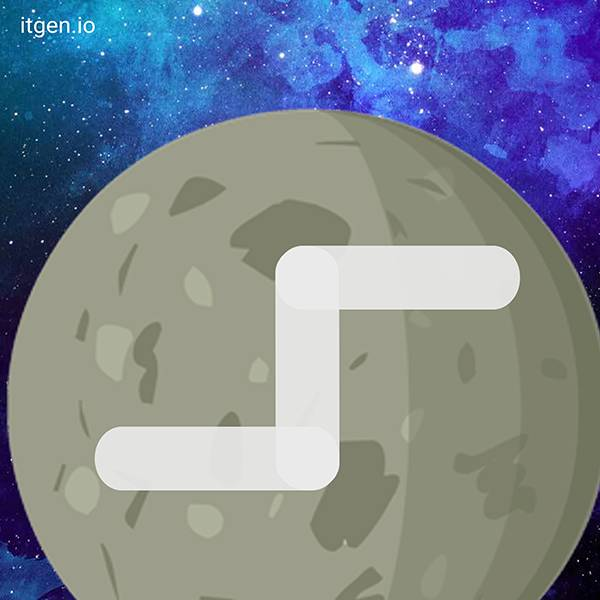
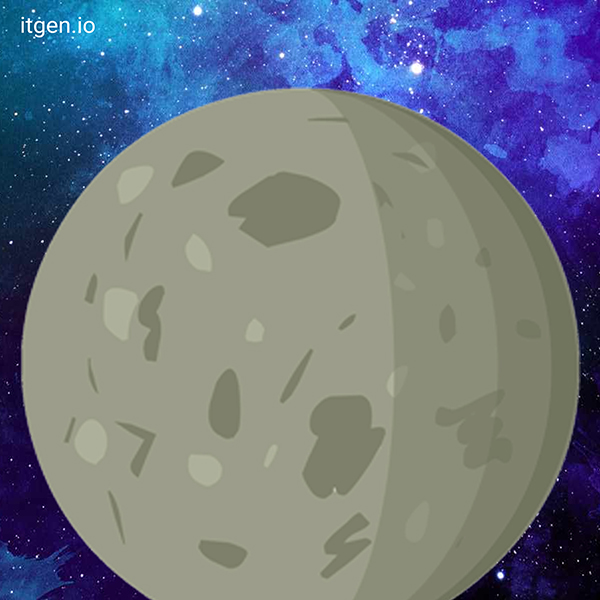
Навел порядок и оптимизировал файлы

diff --git a/script.js b/script.js
@@ -20,17 +20,26 @@ class Herro {
 
 
     // массив с начальными значениями точки старта
-    this.startPosition=[[1,8]];
+    this.startPosition=[[1,7]];
 
     // массив со значениями точки финиша
-    this.finishPosition=[[8,4]];
+    this.finishPosition=[[8,3]];
+
+    //массив с координатами лабиринта
+    this.tracks = [
+      [
+        {begin : [1,7], leng: 4, direct: 0},
+        {begin : [4,7], leng: 5, direct: 1},
+        {begin : [4,3], leng: 5, direct: 0}
+      ]
+    ]
 
     // Наша карта 1-стена, 0-дорога
     this.map = [
       [1, 1, 1, 1, 1, 1, 1, 1, 1, 1, 1],
       [1, 1, 1, 1, 1, 1, 1, 1, 1, 1, 1],
       [1, 1, 1, 1, 1, 1, 1, 1, 1, 1, 1],
-      [1, 1, 1, 1, 0, 0, 0, 0, 0, 0, 1],
+      [1, 1, 1, 1, 0, 0, 0, 0, 0, 1, 1],
       [1, 1, 1, 1, 0, 1, 1, 1, 1, 1, 1],
       [1, 1, 1, 1, 0, 1, 1, 1, 1, 1, 1],
       [1, 1, 1, 1, 0, 1, 1, 1, 1, 1, 1],
@@ -41,7 +50,8 @@ class Herro {
     ];
     // this.x = 2;
     // this.y = 8;
-    this.delta = 55; //шаг персонажа в пикселях
+    this.delta = Math.floor(document.querySelector("#showGame").offsetWidth / this.map.length);
+   // this.delta = 55; //шаг персонажа в пикселях
     this.delay = 500; //задержка в мс между шагами персонажа
     this.funcDelay = 500 //ожидание до выполнения очередной функции 
     //(для каждой последующей функции это ожидание 
@@ -53,23 +63,26 @@ class Herro {
   //Сброс параметров
   reset() {
     this.funcDelay = 500;
-    this.x = 2;
-    this.y = 8;
+    this.x = 1;
+    this.y = 7;
     this.timeOuts = [];
     this.show(this.x, this.y);
   }
   //Метод для перестановки персонажа в позицию, 
   //соответствующую его координатам
   show(myX,myY) {
+    console.log(myX, myY)
     const h = document.querySelector("#herro");
     h.style.opacity = 1;
-    if (this.map[myY - 1][myX - 1] == 0) { //роверяю наличие дороги по карте
+    if (this.map[myY][myX] == 0) { //проверяю наличие дороги по карте
       h.style.left = myX * this.delta + "px";
       h.style.top = myY * this.delta + "px";
       console.log(h.style.top,h.style.left, this.x * this.delta, this.y * this.delta);
-      if (myX * this.delta > 445 && myX * this.delta < 480 && myY * this.delta > 170 && myY * this.delta < 250) {
-        h.style.opacity = 0;
-      }
+      //Проверяем, не достиг ли герой цели
+     if (myX == this.finishPosition[this.level-1][0] &&  myY== this.finishPosition[this.level-1][1]) {
+       h.style.opacity = 0;
+     }
+
     } else {
       //останавливаем все таймауты, чтобы остановить следующие шаги героя
       console.log(this.timeOuts);
@@ -118,25 +131,35 @@ class Herro {
   }
 
   //функция, определяющая, свободен ли путь в заданном направлении
-  isFree = (dir) => {
-    const x = gameHerro.x - 1, y = gameHerro.y - 1;
+  isFree(dir) {
+    const x = this.x, y = this.y;
     let wall;
     switch(dir) {
       case "right":
-        wall = gameHerro.map[y][x+1];
+        wall = this.map[y][x+1];
         break;
       case "left":
-        wall = gameHerro.map[y][x-1];
+        wall = this.map[y][x-1];
         break;
       case "top":
-        wall = gameHerro.map[y-1][x];
+        wall = this.map[y-1][x];
         break;
       case "down":
-        wall = gameHerro.map[y+1][x];
+        wall = this.map[y+1][x];
         break;
     }
     return !wall;
   };
+
+  //определяет, совпадают ли текущие координаты с целью 
+
+  isGoal() {
+    if (this.x == this.finishPosition[this.level-1][0] &&  this.y== this.finishPosition[this.level-1][1]) {
+      return true;
+    } else {
+      return false;
+    }
+  } 
 
   // Определяем какой сейчас уровень и делаем подготовку для следующего
   newLevel=()=>{
@@ -144,16 +167,40 @@ class Herro {
       this.level++;
 
     }
-    let bg_name
+    let bg_name;
+
+    const levelTracks = this.tracks[this.level-1];
+    levelTracks.forEach(elem => {
+      const track = document.createElement("div");
+      track.classList.add("track");
+      if (elem.direct == 0) {
+        track.style.height = this.delta + "px";
+        track.style.width = this.delta * elem.leng + "px";
+        track.style.left = this.delta * elem.begin[0] + "px";
+        track.style.top = this.delta * elem.begin[1] + "px";
+      } else {
+        track.style.width = this.delta + "px";
+        track.style.height = this.delta * elem.leng + "px";
+        track.style.left = this.delta * elem.begin[0] + "px";
+        track.style.top = this.delta * elem.begin[1] - this.delta * elem.leng + this.delta + "px";
+      }
+      document.querySelector("#showGame").append(track);
+    })
+    
+    
+   
+    
+
     document.getElementById('curLevel').value=this.level;
     document.getElementsByClassName('js-open-modal')[0].click();
     this.bgImageName='images/bg/level'+this.level+'.jpg'; //генерирую адрес картинки с фоном для текущего уровня
     this.heroImageName='images/hero/level'+this.level+'.png'; //генерирую адрес картинки персонажа для текущего уровня
     this.finishImageName ='images/finish/level'+this.level+'.png'; //генерирую адрес картинки финиша для текущего уровня
 
-    document.querySelector('#showGame').style.background= "url("+ this.bgImageName+") no-repeat";
+    document.querySelector('#showGame').style.backgroundImage = "url("+ this.bgImageName+")";
     
     document.querySelector('#herro').style.background= "url("+ this.heroImageName+") no-repeat";
+    console.log(this.startPosition, this.level);
     document.querySelector('#herro').style.left = this.startPosition[this.level-1][0] * this.delta + "px";
     document.querySelector('#herro').style.top = this.startPosition[this.level-1][1] * this.delta + "px";
 
@@ -171,6 +218,7 @@ const gameHerro = new Herro();
 document.addEventListener("DOMContentLoaded", () => {
   gameHerro.newLevel();
 
+  // активируем панель инструментов
   const workspace = Blockly.inject('blocklyDiv', {
     toolbox: document.getElementById('toolbox')
   });

diff --git a/itgenio-blocks/blocks.js b/itgenio-blocks/blocks.js
@@ -50,7 +50,7 @@ Blockly.Blocks['go_down'] = {
 };
 
 //цикл "Пока ... свободно"
-Blockly.Blocks['while_right_free'] = {
+Blockly.Blocks['while_direction_free'] = {
   init: function() {
     this.appendStatementInput("loop_body")
         .setCheck(null)
@@ -61,6 +61,57 @@ Blockly.Blocks['while_right_free'] = {
     this.setPreviousStatement(true, null);
     this.setNextStatement(true, null);
     this.setColour(150);
+ this.setTooltip("");
+ this.setHelpUrl("");
+  }
+};
+
+//цикл "Пока цель не достигнута"
+Blockly.Blocks['while_not_goal'] = {
+  init: function() {
+    this.appendStatementInput("loop_body")
+        .setCheck(null)
+        .setAlign(Blockly.ALIGN_CENTRE)
+        .appendField("Пока цель не достигнута")
+    this.setPreviousStatement(true, null);
+    this.setNextStatement(true, null);
+    this.setColour(150);
+ this.setTooltip("");
+ this.setHelpUrl("");
+  }
+};
+
+//условие "Если ... свободно"
+Blockly.Blocks['if_direction_free'] = {
+  init: function() {
+    this.appendStatementInput("condition_body")
+        .setCheck(null)
+        .appendField("Если ")
+        .appendField(new Blockly.FieldDropdown([["справа","right"], ["слева","left"], ["сверху","top"], ["снизу","down"]]), "direction")
+        .appendField("свободно");
+    this.setPreviousStatement(true, null);
+    this.setNextStatement(true, null);
+    this.setColour(180);
+ this.setTooltip("");
+ this.setHelpUrl("");
+  }
+};
+
+//условие "Если ... свободно, иначе"
+Blockly.Blocks['if_direction_free_else'] = {
+  init: function() {
+    this.appendStatementInput("condition_body")
+        .setCheck(null)
+        .appendField("Если ")
+        .appendField(new Blockly.FieldDropdown([["справа","right"], ["слева","left"], ["сверху","top"], ["снизу","down"]]), "direction")
+        .appendField("свободно");
+    this.appendStatementInput("else_body")
+        .setCheck(null)
+        .setAlign(Blockly.ALIGN_RIGHT)
+        .appendField("иначе");
+    this.setPreviousStatement(true, null);
+    this.setNextStatement(true, null);
+    this.setColour(180);
  this.setTooltip("");
  this.setHelpUrl("");
   }

diff --git a/itgenio-blocks/js-generators.js b/itgenio-blocks/js-generators.js
@@ -20,13 +20,47 @@ Blockly.JavaScript['go_down'] = function(block) {
   return code;
 };
 
-Blockly.JavaScript['while_right_free'] = function(block) {
+Blockly.JavaScript['while_direction_free'] = function(block) {
   var dropdown_direction = block.getFieldValue('direction');
   var statements_loop_body = Blockly.JavaScript.statementToCode(block, 'loop_body');
-  // TODO: Assemble JavaScript into code variable.
   var code = `
   while (gameHerro.isFree("${dropdown_direction}")) {
     ${statements_loop_body}
+  };\n`;
+  return code;
+};
+
+Blockly.JavaScript['while_not_goal'] = function(block) {
+  var statements_loop_body = Blockly.JavaScript.statementToCode(block, 'loop_body');
+  var code = `
+  let limitLoop = 1000;
+  while (!gameHerro.isGoal() && limitLoop > 0) {
+    limitLoop--;
+    console.log(limitLoop)
+    ${statements_loop_body}
+  };\n`;
+  return code;
+};
+
+Blockly.JavaScript['if_direction_free'] = function(block) {
+  var dropdown_direction = block.getFieldValue('direction');
+  var statements_condition_body = Blockly.JavaScript.statementToCode(block, 'condition_body');
+  var code = `
+  if (gameHerro.isFree("${dropdown_direction}")) {
+    ${statements_condition_body}
+  };\n`;
+  return code;
+};
+
+Blockly.JavaScript['if_direction_free_else'] = function(block) {
+  var dropdown_direction = block.getFieldValue('direction');
+  var statements_condition_body = Blockly.JavaScript.statementToCode(block, 'condition_body');
+  var statements_else_body = Blockly.JavaScript.statementToCode(block, 'else_body');
+  var code = `
+  if (gameHerro.isFree("${dropdown_direction}")) {
+    ${statements_condition_body}
+  } else {
+    ${statements_else_body}
   };\n`;
   return code;
 };

diff --git a/modal.js b/modal.js
@@ -26,12 +26,12 @@ document.addEventListener('DOMContentLoaded', function() {
       item.addEventListener('click', function(e) {
          e.preventDefault();
          /* При каждом клике на кнопку мы будем забирать содержимое атрибута data-modal
-            и будем искать модальное окно с таким же атрибутом. */
-         // var modalId = this.getAttribute('data-modal'),
-         //     modalElem = document.querySelector('.modal[data-modal="' + modalId + '"]');
+            и будем искать модальное окно с таким же атрибутом. Данная вещь пригодится, если у нас будет несколько кнопок*/
+         var modalId = this.getAttribute('data-modal'),
+             modalElem = document.querySelector('.modal[data-modal="' + modalId + '"]');
 
          lvl=document.querySelector('#curLevel').value;
-         modalElem=document.querySelector('.modal');
+         // modalElem=document.querySelector('.modal'); //Пригодится, если только 1 кнопка
          modalElem.querySelector('div.content').innerHTML=levelDescription[lvl]+levelDescription[0];
          modalElem.classList.add('active');
          overlay.classList.add('active');

diff --git a/style.css b/style.css
@@ -8,8 +8,9 @@
 
 #blocklyDiv {
   height: 600px; 
-  width: 600px;
+  width: 700px;
 }
+
 
 #showGame {
   position: relative;
@@ -17,23 +18,32 @@
   border: 1px solid gray;
   background: #ccc;
   background-size: cover;
+  background-repeat: no-repeat
 }
 #herro {
   position: absolute;
-  width: 100px;
-  height: 100px;
-  /*background: url('images/itgen.png');*/
+  width: 85px;
+  height: 85px;
   background-size: cover !important;
   z-index: 9;
   transition: opacity 1s;
 }
+
+.track {
+  box-sizing: content-box;
+  position: absolute;
+  padding: 0 30px 30px 0;
+  border-radius: 40px;
+  background-color: #fff;
+  opacity: 0.7;
+}
+
 #exit{
   position: absolute;
   width: 80px;
   height: 80px;
   top: 188px;
   left: 450px;
-  /*background: url('images/finish.png');*/
   background-size: cover !important;
   z-index: 1;
 }
@@ -56,7 +66,7 @@
    width: 100%;
    height: 100%;
    background-color: rgba(0, 0, 0, .5);
-   z-index: 21;
+   z-index: 998;
    transition: .7s all;
 }
 
@@ -70,7 +80,7 @@
    top: 50%;
    left: 50%;
    transform: translate(-50%, -50%);
-   z-index: 30;
+   z-index: 999;
    box-shadow: 0 3px 10px -.5px rgba(0, 0, 0, .2); 
    text-align: center;
    padding: 30px;
@@ -123,4 +133,3 @@ button.ready {
   float: right;
   margin-top: 40px;
 }
-/*test*/

diff --git a/index.html b/index.html
@@ -40,11 +40,19 @@
 
   <!--Создаём панель инструментов-->
   <xml id="toolbox" style="display: none">
-    <block type="go_left"></block>
-    <block type="go_right"></block>
-    <block type="go_up"></block>
-    <block type="go_down"></block>
-    <block type="while_right_free"></block>
+    <category name="Движение">
+      <block type="go_left"></block>
+      <block type="go_right"></block>
+      <block type="go_up"></block>
+      <block type="go_down"></block>
+    </category>
+    <category name="Управление">
+      <block type="while_direction_free"></block>
+      <block type="while_not_goal"></block>
+      <block type="if_direction_free"></block>
+      <block type="if_direction_free_else"></block>
+    </category>
+    
   </xml>
 
   <script src="script.js"></script>
